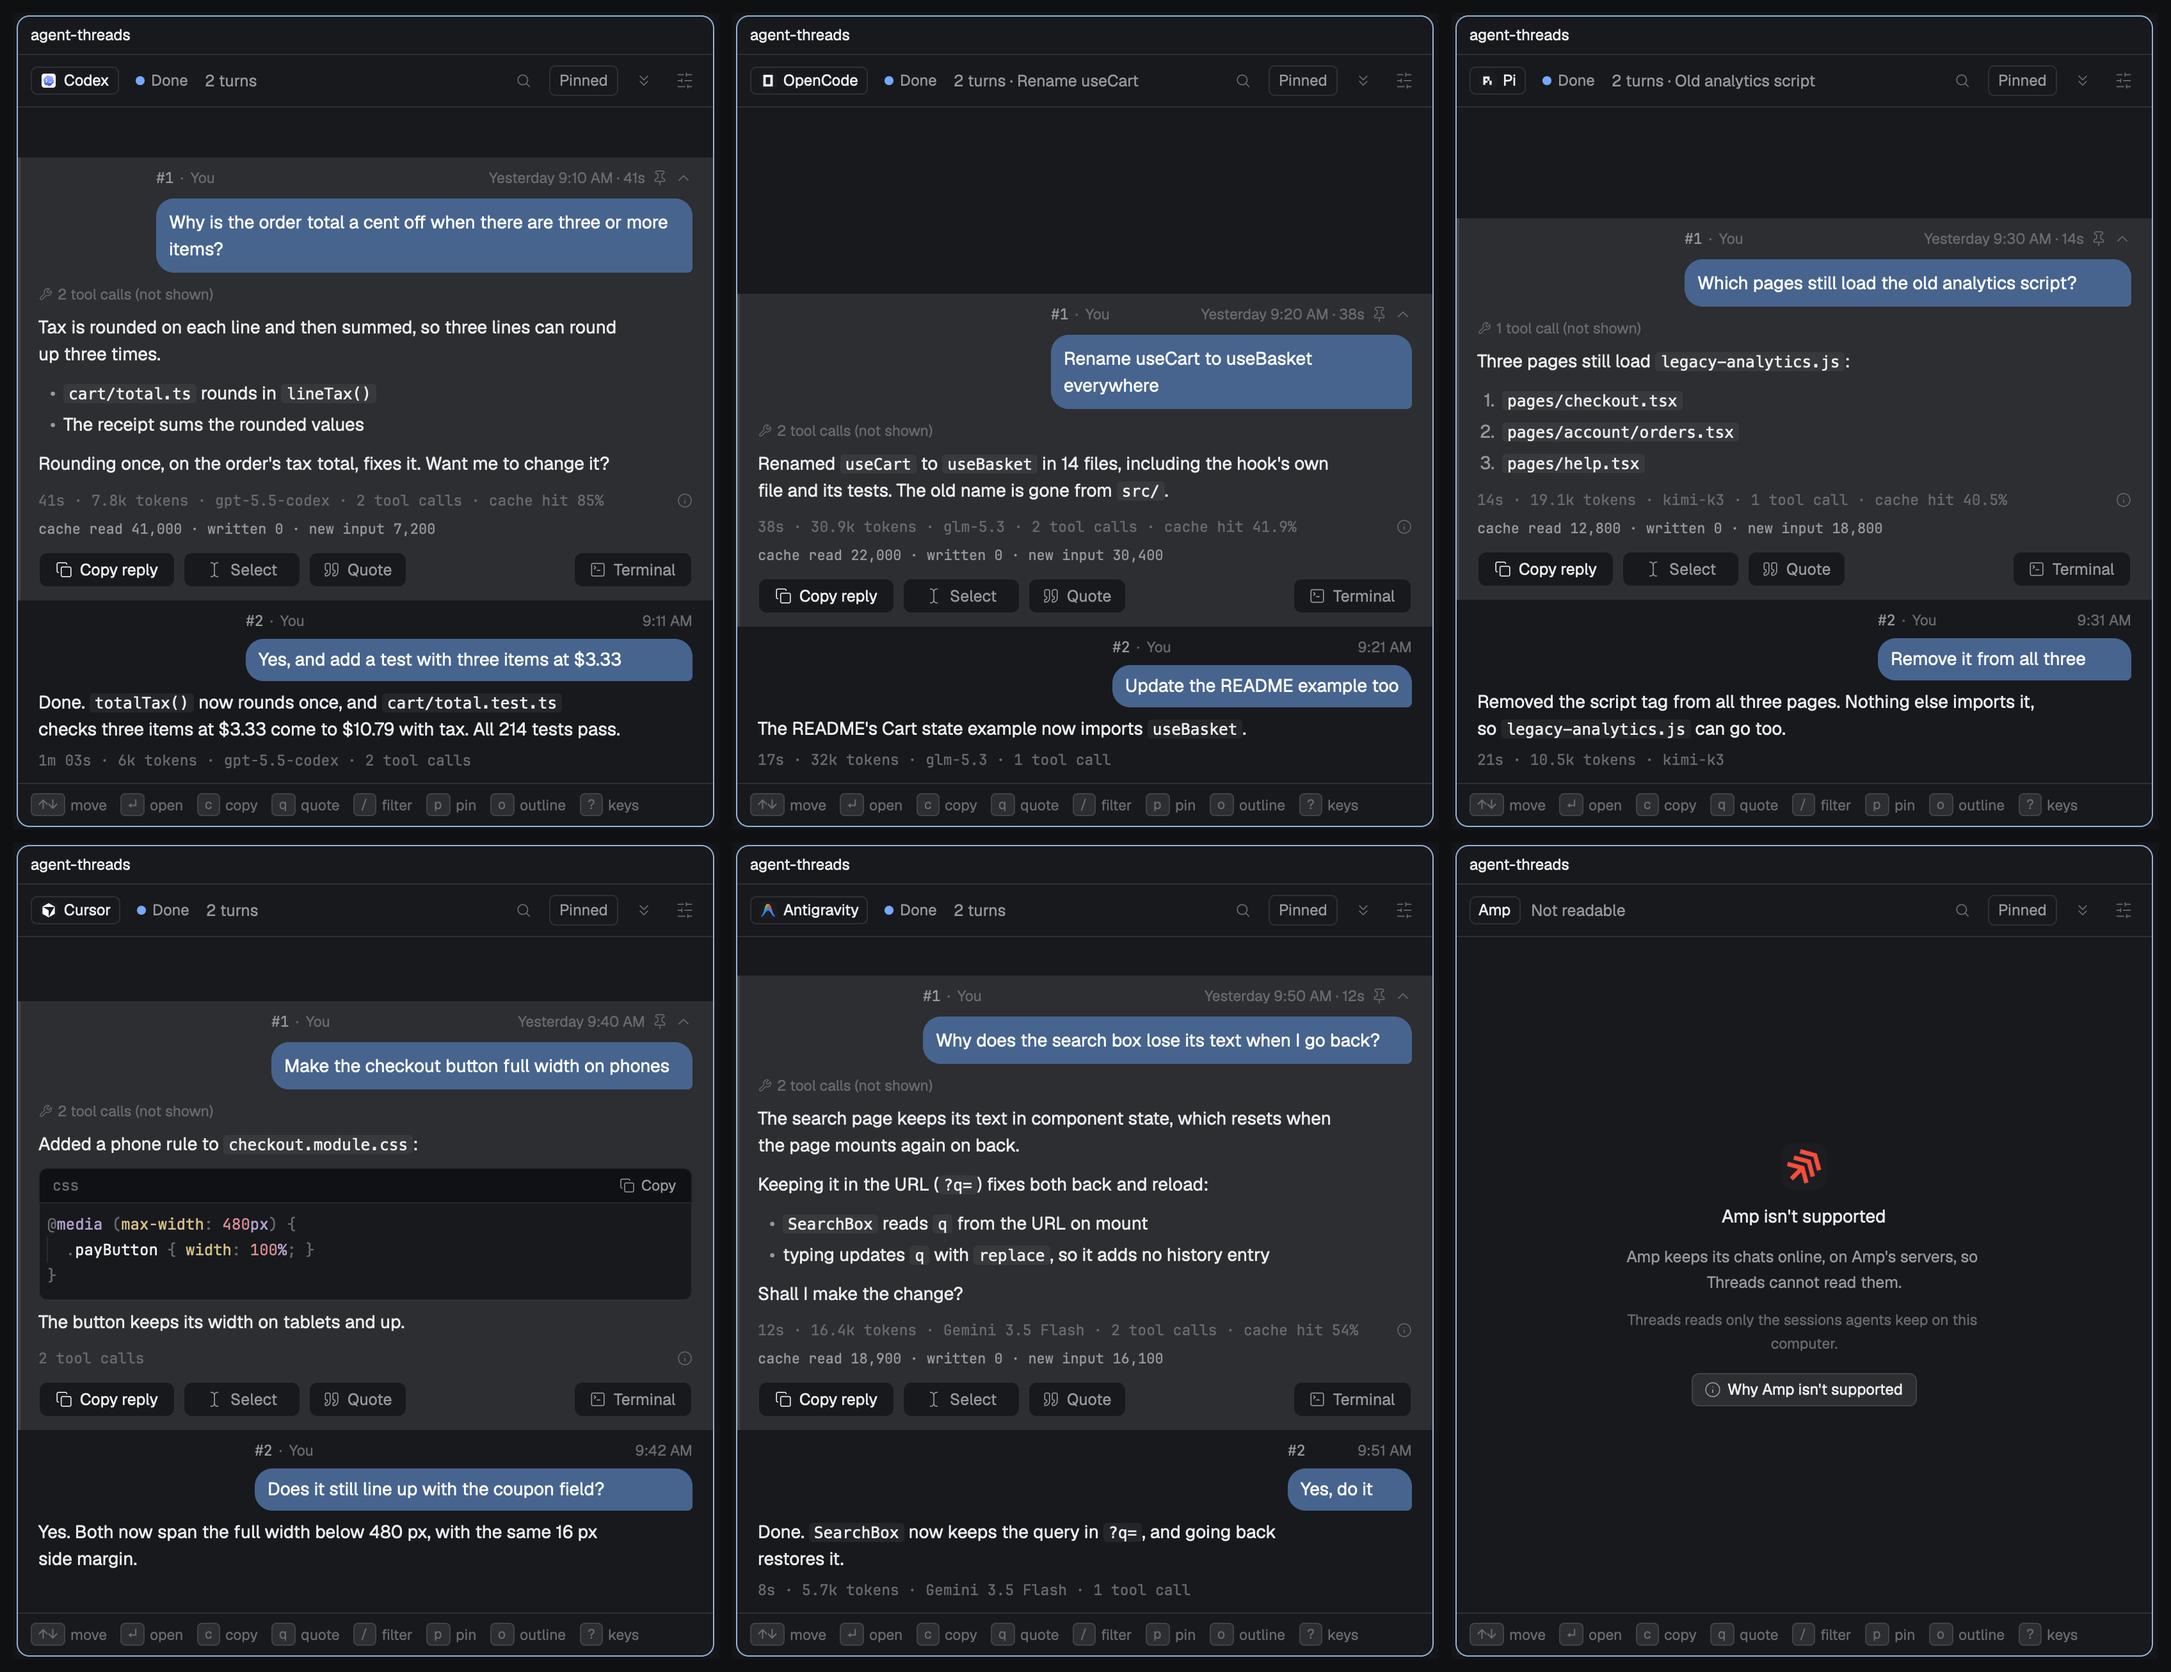
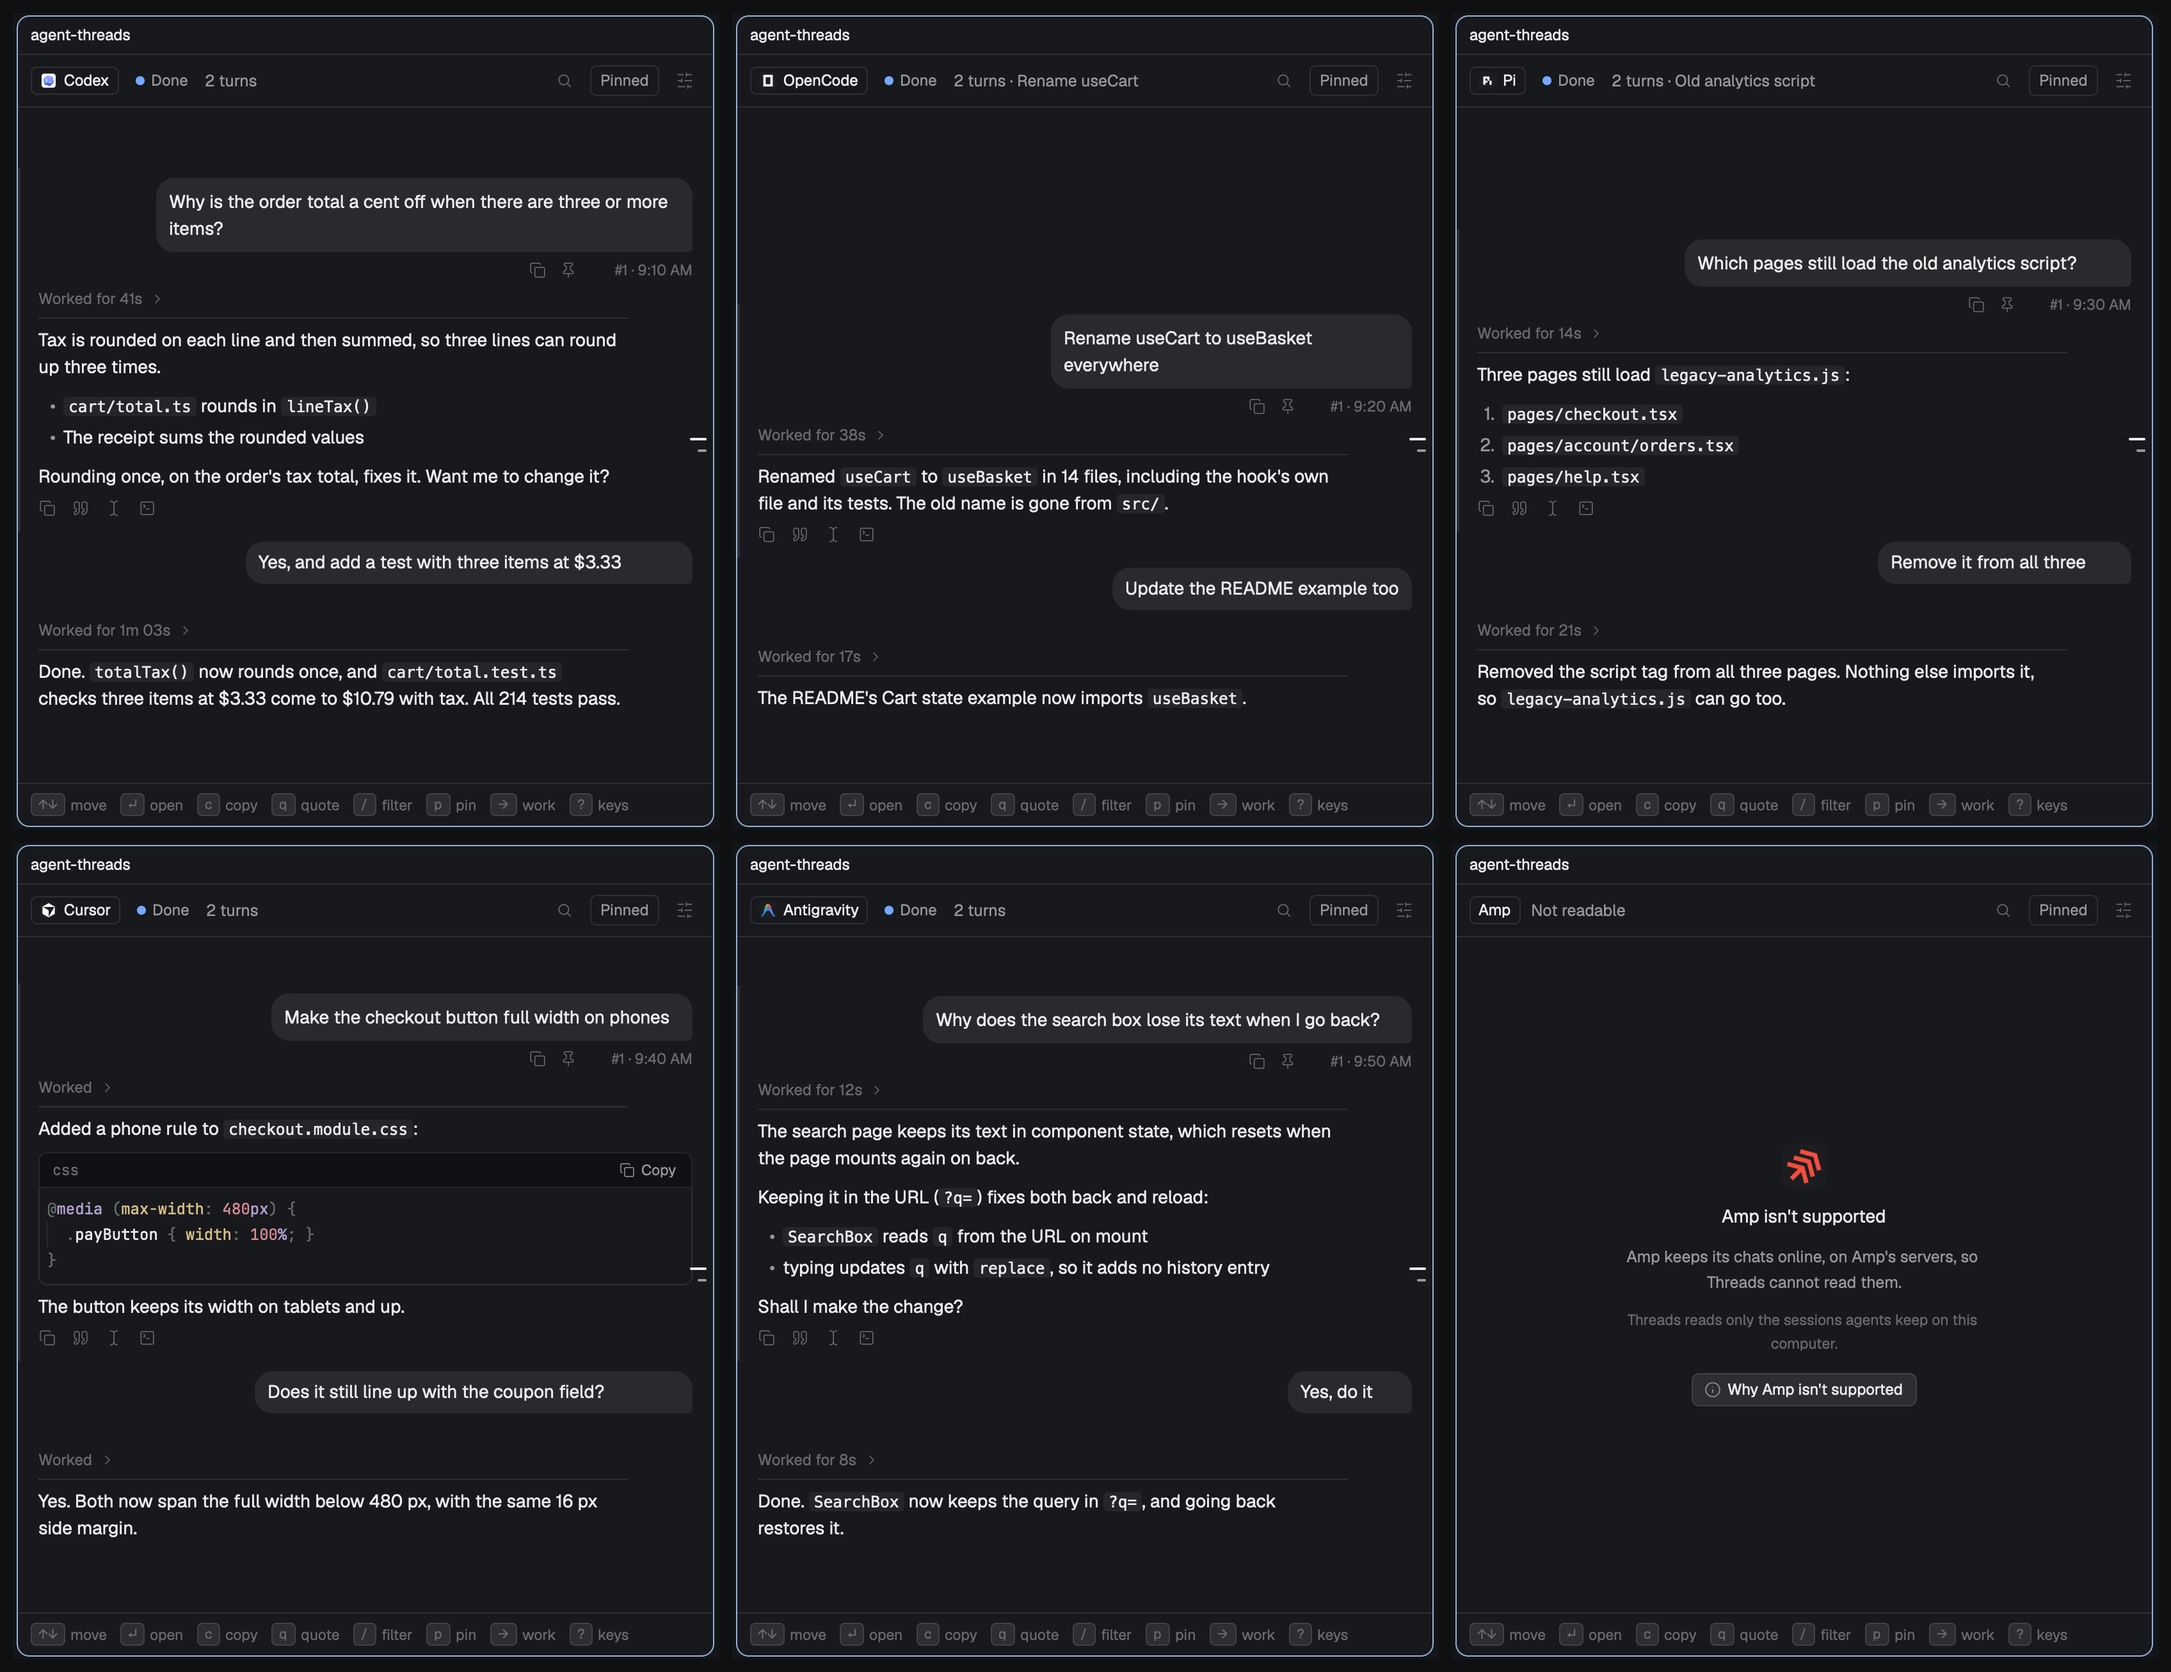
docs: README shots retaken with the chat look, and a shot of a turn's work
Every README and usage shot is retaken on Herdr 0.1.15 with the stacked
chat look: the quiet turn, the pill, the rail and the levels. A new
section, "See what the agent did", shows an open run of tool calls with
one command's output (work.png). The rail joins "Find an answer".
make-hero.js gives turn 7's calls short outputs for that shot.

diff --git a/test/make-hero.js b/test/make-hero.js
@@ -311,14 +311,14 @@ const LONG_NOTES = [
   "The checkout service logs a warning when the total it charges differs from the total the cart page sent with the order. Before the fix that warning fired a few times a day in the test region. After the deploy it should not fire at all. If it does, the log line has the cart id and both totals, which is enough to replay the cart in the totals tests and see which step disagrees.",
 ];
 
-// Turn 7: the open card
+// Turn 7: the open card. Its tool calls have short outputs, for the work shot (work.png).
 p = prompt("Fix that one-cent checkout bug, it's ACME-123", 180);
-tool("Read", { file_path: `${cwd}/src/cart/totals.ts` }, "…", p);
-tool("Grep", { pattern: "Math.round" }, "…", p);
-tool("Edit", { file_path: `${cwd}/src/cart/totals.ts` }, "…", p);
-tool("Edit", { file_path: `${cwd}/src/cart/totals.test.ts` }, "…", p);
-tool("Bash", { command: "bun run test src/cart && bun run e2e --grep checkout" }, "…", p, 30);
-tool("Bash", { command: "gh pr create --fill" }, "…", p);
+tool("Read", { file_path: `${cwd}/src/cart/totals.ts` }, ["export function orderTotal(lines: Line[], taxRate: number) {", "  let total = 0;", "  for (const line of lines) {", "    const net = line.price * line.qty;", "    total += Math.round(net * (1 + taxRate) * 100) / 100;", "  }", "  return total;", "}"].join("\n"), p);
+tool("Grep", { pattern: "Math.round" }, ["src/cart/totals.ts:5:    total += Math.round(net * (1 + taxRate) * 100) / 100;", "src/cart/format.ts:12:  return Math.round(cents) / 100;"].join("\n"), p);
+tool("Edit", { file_path: `${cwd}/src/cart/totals.ts` }, "The file src/cart/totals.ts has been updated.", p);
+tool("Edit", { file_path: `${cwd}/src/cart/totals.test.ts` }, "The file src/cart/totals.test.ts has been updated.", p);
+tool("Bash", { command: "bun run test src/cart && bun run e2e --grep checkout" }, ["bun test v1.4.2", "", "src/cart/totals.test.ts:", "✓ one item, no tax", "✓ three items with tax", "✓ five items, discount code", "✓ the cart from ACME-123", "✓ zero quantity", "✓ rounding stays in cents", "", " 18 pass", " 0 fail", "", "Running 18 checkout tests using 2 workers", "  18 passed (41.2s)"].join("\n"), p, 30);
+tool("Bash", { command: "gh pr create --fill" }, "https://github.com/acme/acme-web/pull/482", p);
 assistant([{ type: "text", text: [
   "Found it. Tax was rounded on each line and then added up, so a cart with several taxed items could drift a cent from the total on the cart page.",
   "",

diff --git a/docs/develop.md b/docs/develop.md
@@ -85,10 +85,11 @@ Start each shot from a fresh launch with the window size set in `window.json`, w
 | `pinned.png` | 1760x1150, a `days` transcript started two days before the shot (`make-hero.js pdays.jsonl … <two days ago>T15:05:00Z days`), so the pins span Yesterday and Today and show oldest first (#3, #5, #7) | `search:#3`, `open`, `pin`, `search:#7`, `open`, `pin`, `search:#5`, `open`, `pin` | `1904 96 3512 2232` |
 | `updating.png` | 1460x1150, a `wake` transcript written just before (`make-hero.js wake.jsonl … wake`) and `printf '\033]7501;state=working:app=claude-code\007'` in the stand-in's screen | `latest` | `1808 96 2912 2232` |
 | `keys.png` | 1460x1150 | `keys` | `1808 96 2912 2232` |
+| `work.png` | 1460x1150, `"debug": true`, a transcript made with the cwd `/home/dev/acme-web` (`make-hero.js herodev.jsonl /home/dev/acme-web …`), because level 3 shows each call's whole file path | `search:#7`, `escape`, `deeper`, `deeper`, `debugClick:100:cl:0:7:0:4`, so turn 7's line and its run open and the test command's output shows | `1808 242 2912 2232`, below the header, which shows timings in debug |
 | `outline.png` | 1460x1150, a `many` transcript started three days before the shot (`make-hero.js outline.jsonl … <three days ago>T15:05:00Z days many`), 21 turns over four days | `outline`, `search:#12`, `open` (in a `#N` search `open` leaves the field and keeps the turn selected) | `1808 96 2912 2232` |
 | `width.png` | 1760x1150, `"readingWidth": false` in `settings.json`, Threads resized to 960 px | `open` | `1578 96 3512 2232` |
 | `agents.png` | 1460x720, the pane's `transcript` set to each file `make-agents.js` printed; for Amp, a terminal running a program named `amp` (a copy of `sleep` will do) and a Threads pane with no `transcript` | `first`, `open` | `1808 96 2912 1372` each, in a 3 by 2 grid (Codex, OpenCode, Pi, then Cursor, Antigravity, Amp) 20 px apart on `#0f1012` |
 
-`quote.png` and `images.png` need `"debug": true` in the props, because `debugQuote` and `debugClick` run only with it, and debug adds a timing text to the pane header, which those crops leave out. `agents:on` saves to settings, so turn it off before the next shot.
+`quote.png`, `images.png` and `work.png` need `"debug": true` in the props, because `debugQuote` and `debugClick` run only with it, and debug adds a timing text to the pane header, which those crops leave out. `agents:on` saves to settings, so turn it off before the next shot.
 
 After changing an image, run `sh test/scan-private.sh` with its line removed from `test/scan-approved.txt`, so OCR reads it, and pin the new hash only once the owner has approved it.

diff --git a/README.md b/README.md
@@ -36,13 +36,19 @@ Some agents need a few more command-line tools. [Install in detail](docs/usage.m
 
 ### Read a long session as a chat
 
-Your prompt is a quiet bubble on the right. A grey line under it says how long the agent worked, and the reply follows. Point at a message for its time, and select a turn for the copy, pin, quote and terminal icons. In an open turn, click the grey line to see the work before the reply: what the agent said along the way, each run of tool calls, then tokens and model. For every agent but Cursor, open a run to see each command, and click one to see its output. `→` and `←` open and close it a level at a time. A band marks each day. Open a turn to see the whole reply, with code, lists and links formatted.
+Your prompt is a quiet bubble on the right. A grey line under it says how long the agent worked, and the reply follows. Point at a message for its time, and select a turn for the copy, pin, quote and terminal icons. A band marks each day. Open a turn to see the whole reply, with code, lists and links formatted.
 
 <a href="docs/screenshots/open-turn.png"><img src="docs/screenshots/open-turn.png" alt="An open turn: the prompt in a bubble, then a formatted reply with a list, a code block and stats" width="400"></a>
 
+### See what the agent did
+
+In an open turn, click the grey line to see the work before the reply: what the agent said along the way, each run of tool calls, then tokens and model. For every agent but Cursor, open a run to see each command, file or search, and click one to see its output. A run's calls are read from the transcript only when you open it, and kept in memory only. `→` and `←` open and close the work a level at a time.
+
+<a href="docs/screenshots/work.png"><img src="docs/screenshots/work.png" alt="An open turn's work: a run of tool calls, each naming its file or command, with one command's test output open" width="400"></a>
+
 ### Find an answer
 
-Press `/` and type. The list narrows to the turns that match. `g` jumps to a turn number, and `[` `]` move a day at a time.
+Press `/` and type. The list narrows to the turns that match. `g` jumps to a turn number, and `[` `]` move a day at a time. The rail on the list's right edge has a tick for each turn: point at one for the turn's number and the start of your prompt, and click it to go there.
 
 <a href="docs/screenshots/search.png"><img src="docs/screenshots/search.png" alt="The list narrowed by a search for tests" width="400"></a>
 
